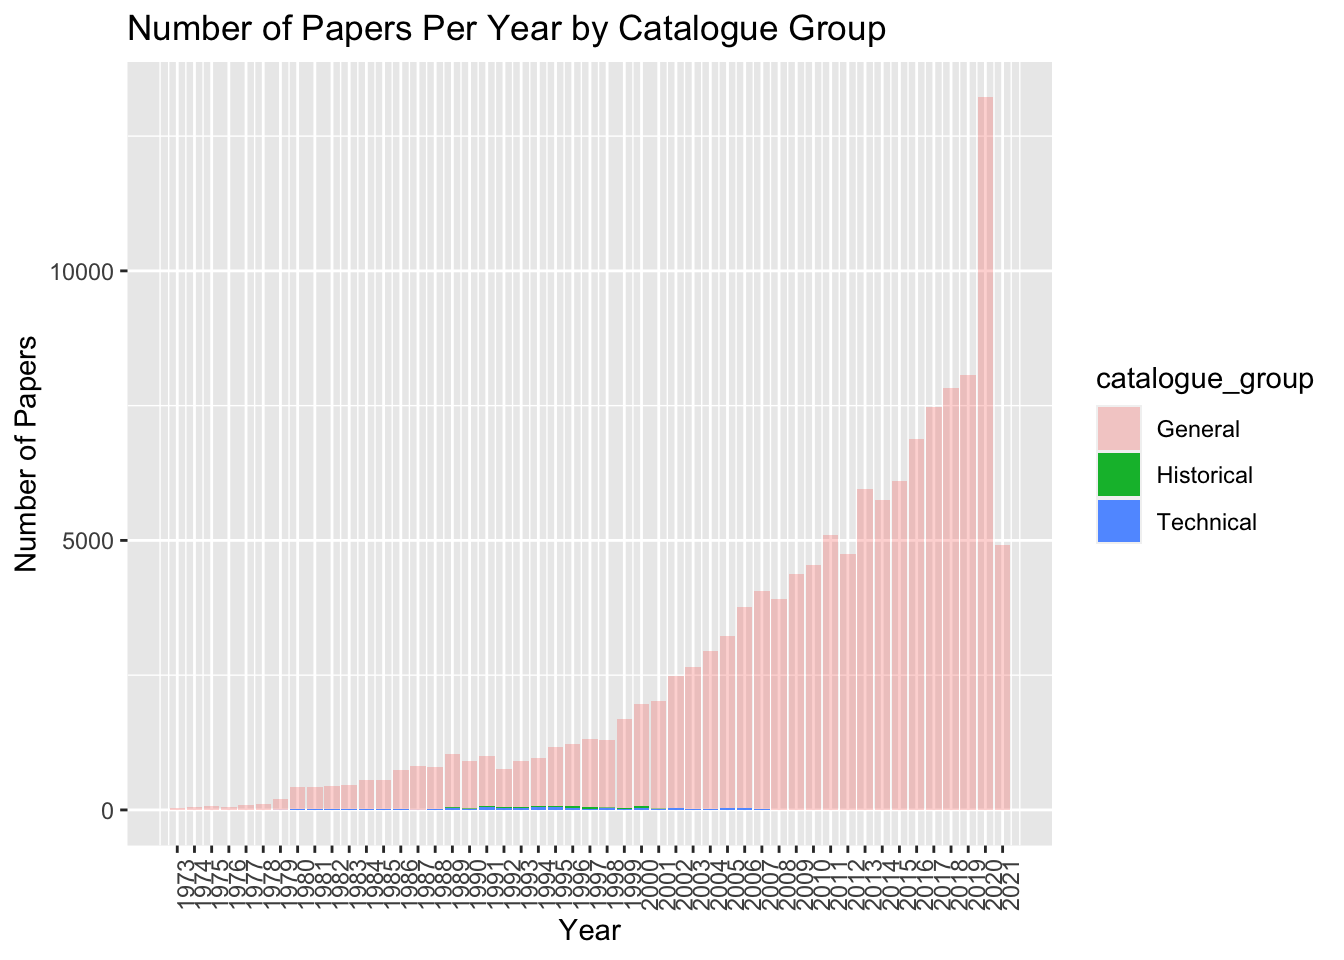
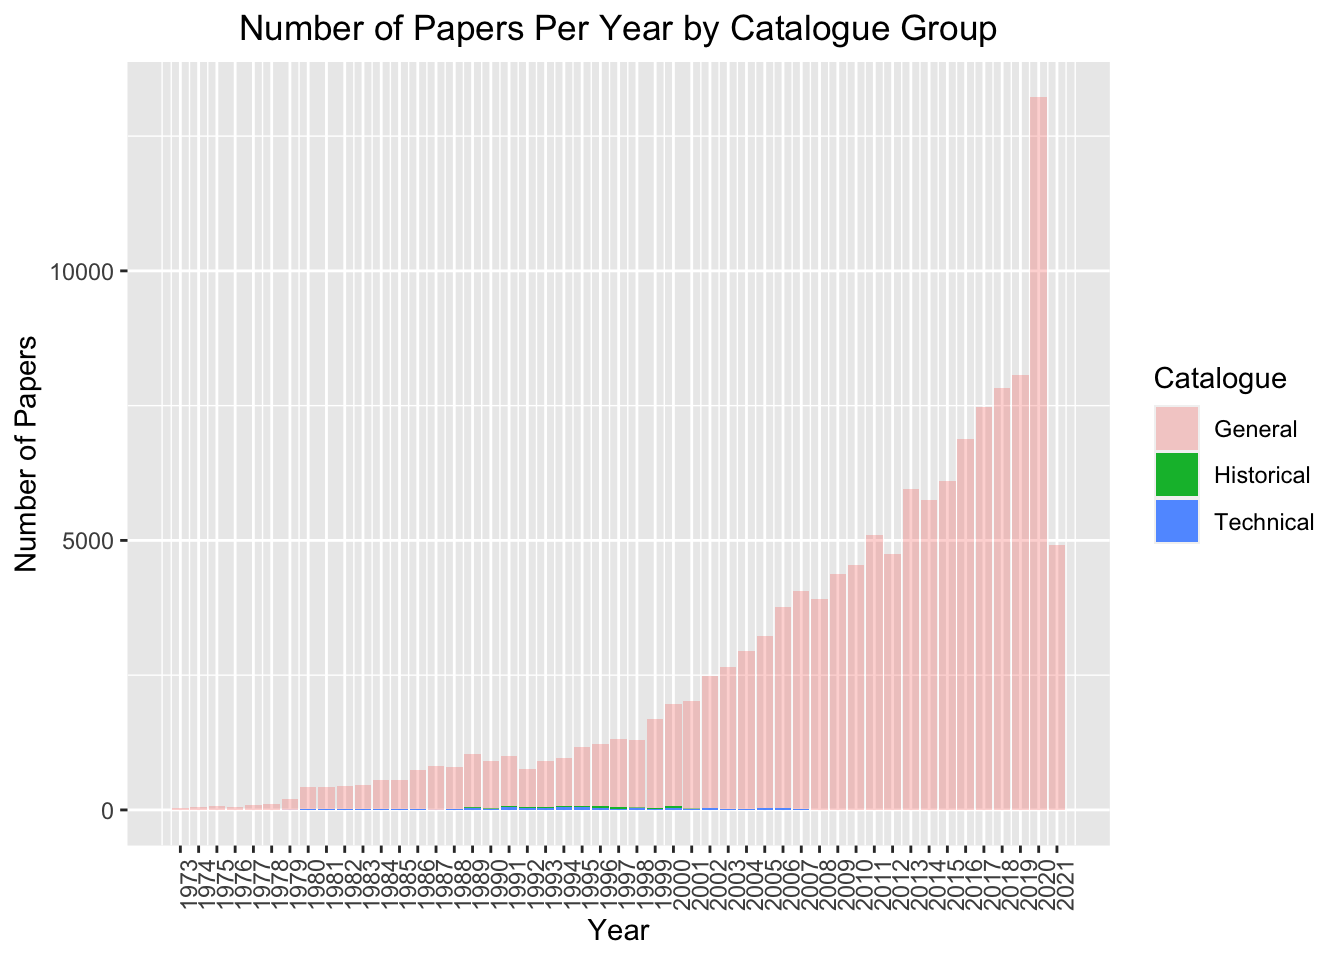
Finished TidyTuesday Assignment
Graph completed and neat.

Changed region(s): [[0.0938, 0.0, 0.9688, 1.0]]

diff --git a/docs/tidytuesday.html b/docs/tidytuesday.html
@@ -373,12 +373,17 @@ $(document).ready(function () {
 <div class="sourceCode" id="cb1"><pre class="sourceCode r"><code class="sourceCode r"><span id="cb1-1"><a href="#cb1-1" aria-hidden="true" tabindex="-1"></a><span class="fu">library</span>(tidytuesdayR)</span>
 <span id="cb1-2"><a href="#cb1-2" aria-hidden="true" tabindex="-1"></a><span class="fu">library</span>(tidyverse)</span>
 <span id="cb1-3"><a href="#cb1-3" aria-hidden="true" tabindex="-1"></a><span class="fu">library</span>(nberwp)</span></code></pre></div>
+<pre><code>## 
+## Attaching package: &#39;nberwp&#39;</code></pre>
+<pre><code>## The following objects are masked _by_ &#39;.GlobalEnv&#39;:
+## 
+##     authors, paper_authors, paper_programs, papers, programs</code></pre>
 </div>
 <div id="loading-the-data" class="section level3">
 <h3>Loading the data</h3>
-<div class="sourceCode" id="cb2"><pre class="sourceCode r"><code class="sourceCode r"><span id="cb2-1"><a href="#cb2-1" aria-hidden="true" tabindex="-1"></a><span class="co">#tuesdata &lt;- tidytuesdayR::tt_load(&#39;2021-09-28&#39;)</span></span>
-<span id="cb2-2"><a href="#cb2-2" aria-hidden="true" tabindex="-1"></a></span>
-<span id="cb2-3"><a href="#cb2-3" aria-hidden="true" tabindex="-1"></a>papers <span class="ot">&lt;-</span> readr<span class="sc">::</span><span class="fu">read_csv</span>(<span class="st">&#39;https://raw.githubusercontent.com/rfordatascience/tidytuesday/master/data/2021/2021-09-28/papers.csv&#39;</span>)</span></code></pre></div>
+<div class="sourceCode" id="cb4"><pre class="sourceCode r"><code class="sourceCode r"><span id="cb4-1"><a href="#cb4-1" aria-hidden="true" tabindex="-1"></a><span class="co">#tuesdata &lt;- tidytuesdayR::tt_load(&#39;2021-09-28&#39;)</span></span>
+<span id="cb4-2"><a href="#cb4-2" aria-hidden="true" tabindex="-1"></a></span>
+<span id="cb4-3"><a href="#cb4-3" aria-hidden="true" tabindex="-1"></a>papers <span class="ot">&lt;-</span> readr<span class="sc">::</span><span class="fu">read_csv</span>(<span class="st">&#39;https://raw.githubusercontent.com/rfordatascience/tidytuesday/master/data/2021/2021-09-28/papers.csv&#39;</span>)</span></code></pre></div>
 <pre><code>## Rows: 29434 Columns: 4</code></pre>
 <pre><code>## ── Column specification ────────────────────────────────────────────────────────
 ## Delimiter: &quot;,&quot;
@@ -387,7 +392,7 @@ $(document).ready(function () {
 <pre><code>## 
 ## ℹ Use `spec()` to retrieve the full column specification for this data.
 ## ℹ Specify the column types or set `show_col_types = FALSE` to quiet this message.</code></pre>
-<div class="sourceCode" id="cb6"><pre class="sourceCode r"><code class="sourceCode r"><span id="cb6-1"><a href="#cb6-1" aria-hidden="true" tabindex="-1"></a>authors <span class="ot">&lt;-</span> readr<span class="sc">::</span><span class="fu">read_csv</span>(<span class="st">&#39;https://raw.githubusercontent.com/rfordatascience/tidytuesday/master/data/2021/2021-09-28/authors.csv&#39;</span>)</span></code></pre></div>
+<div class="sourceCode" id="cb8"><pre class="sourceCode r"><code class="sourceCode r"><span id="cb8-1"><a href="#cb8-1" aria-hidden="true" tabindex="-1"></a>authors <span class="ot">&lt;-</span> readr<span class="sc">::</span><span class="fu">read_csv</span>(<span class="st">&#39;https://raw.githubusercontent.com/rfordatascience/tidytuesday/master/data/2021/2021-09-28/authors.csv&#39;</span>)</span></code></pre></div>
 <pre><code>## Rows: 15437 Columns: 4</code></pre>
 <pre><code>## ── Column specification ────────────────────────────────────────────────────────
 ## Delimiter: &quot;,&quot;
@@ -395,7 +400,7 @@ $(document).ready(function () {
 <pre><code>## 
 ## ℹ Use `spec()` to retrieve the full column specification for this data.
 ## ℹ Specify the column types or set `show_col_types = FALSE` to quiet this message.</code></pre>
-<div class="sourceCode" id="cb10"><pre class="sourceCode r"><code class="sourceCode r"><span id="cb10-1"><a href="#cb10-1" aria-hidden="true" tabindex="-1"></a>programs <span class="ot">&lt;-</span> readr<span class="sc">::</span><span class="fu">read_csv</span>(<span class="st">&#39;https://raw.githubusercontent.com/rfordatascience/tidytuesday/master/data/2021/2021-09-28/programs.csv&#39;</span>)</span></code></pre></div>
+<div class="sourceCode" id="cb12"><pre class="sourceCode r"><code class="sourceCode r"><span id="cb12-1"><a href="#cb12-1" aria-hidden="true" tabindex="-1"></a>programs <span class="ot">&lt;-</span> readr<span class="sc">::</span><span class="fu">read_csv</span>(<span class="st">&#39;https://raw.githubusercontent.com/rfordatascience/tidytuesday/master/data/2021/2021-09-28/programs.csv&#39;</span>)</span></code></pre></div>
 <pre><code>## Rows: 21 Columns: 3</code></pre>
 <pre><code>## ── Column specification ────────────────────────────────────────────────────────
 ## Delimiter: &quot;,&quot;
@@ -403,7 +408,7 @@ $(document).ready(function () {
 <pre><code>## 
 ## ℹ Use `spec()` to retrieve the full column specification for this data.
 ## ℹ Specify the column types or set `show_col_types = FALSE` to quiet this message.</code></pre>
-<div class="sourceCode" id="cb14"><pre class="sourceCode r"><code class="sourceCode r"><span id="cb14-1"><a href="#cb14-1" aria-hidden="true" tabindex="-1"></a>paper_authors <span class="ot">&lt;-</span> readr<span class="sc">::</span><span class="fu">read_csv</span>(<span class="st">&#39;https://raw.githubusercontent.com/rfordatascience/tidytuesday/master/data/2021/2021-09-28/paper_authors.csv&#39;</span>)</span></code></pre></div>
+<div class="sourceCode" id="cb16"><pre class="sourceCode r"><code class="sourceCode r"><span id="cb16-1"><a href="#cb16-1" aria-hidden="true" tabindex="-1"></a>paper_authors <span class="ot">&lt;-</span> readr<span class="sc">::</span><span class="fu">read_csv</span>(<span class="st">&#39;https://raw.githubusercontent.com/rfordatascience/tidytuesday/master/data/2021/2021-09-28/paper_authors.csv&#39;</span>)</span></code></pre></div>
 <pre><code>## Rows: 67090 Columns: 2</code></pre>
 <pre><code>## ── Column specification ────────────────────────────────────────────────────────
 ## Delimiter: &quot;,&quot;
@@ -411,7 +416,7 @@ $(document).ready(function () {
 <pre><code>## 
 ## ℹ Use `spec()` to retrieve the full column specification for this data.
 ## ℹ Specify the column types or set `show_col_types = FALSE` to quiet this message.</code></pre>
-<div class="sourceCode" id="cb18"><pre class="sourceCode r"><code class="sourceCode r"><span id="cb18-1"><a href="#cb18-1" aria-hidden="true" tabindex="-1"></a>paper_programs <span class="ot">&lt;-</span> readr<span class="sc">::</span><span class="fu">read_csv</span>(<span class="st">&#39;https://raw.githubusercontent.com/rfordatascience/tidytuesday/master/data/2021/2021-09-28/paper_programs.csv&#39;</span>)</span></code></pre></div>
+<div class="sourceCode" id="cb20"><pre class="sourceCode r"><code class="sourceCode r"><span id="cb20-1"><a href="#cb20-1" aria-hidden="true" tabindex="-1"></a>paper_programs <span class="ot">&lt;-</span> readr<span class="sc">::</span><span class="fu">read_csv</span>(<span class="st">&#39;https://raw.githubusercontent.com/rfordatascience/tidytuesday/master/data/2021/2021-09-28/paper_programs.csv&#39;</span>)</span></code></pre></div>
 <pre><code>## Rows: 53996 Columns: 2</code></pre>
 <pre><code>## ── Column specification ────────────────────────────────────────────────────────
 ## Delimiter: &quot;,&quot;
@@ -423,15 +428,15 @@ $(document).ready(function () {
 <div id="cleaning-and-combining-the-datasets" class="section level3">
 <h3>Cleaning and Combining the Datasets</h3>
 <p>First we have to join all 5 data frames together, and we can do that by using left_join. Each dataframe has a key column that matches with another dataframe, and we can use that to join them all together.</p>
-<div class="sourceCode" id="cb22"><pre class="sourceCode r"><code class="sourceCode r"><span id="cb22-1"><a href="#cb22-1" aria-hidden="true" tabindex="-1"></a>CombinedFrame <span class="ot">&lt;-</span> <span class="fu">left_join</span>(papers, paper_authors) <span class="sc">%&gt;%</span></span>
-<span id="cb22-2"><a href="#cb22-2" aria-hidden="true" tabindex="-1"></a>                  <span class="fu">left_join</span>(authors) <span class="sc">%&gt;%</span></span>
-<span id="cb22-3"><a href="#cb22-3" aria-hidden="true" tabindex="-1"></a>                  <span class="fu">left_join</span>(paper_programs) <span class="sc">%&gt;%</span></span>
-<span id="cb22-4"><a href="#cb22-4" aria-hidden="true" tabindex="-1"></a>                  <span class="fu">left_join</span>(programs)</span></code></pre></div>
+<div class="sourceCode" id="cb24"><pre class="sourceCode r"><code class="sourceCode r"><span id="cb24-1"><a href="#cb24-1" aria-hidden="true" tabindex="-1"></a>CombinedFrame <span class="ot">&lt;-</span> <span class="fu">left_join</span>(papers, paper_authors) <span class="sc">%&gt;%</span></span>
+<span id="cb24-2"><a href="#cb24-2" aria-hidden="true" tabindex="-1"></a>                  <span class="fu">left_join</span>(authors) <span class="sc">%&gt;%</span></span>
+<span id="cb24-3"><a href="#cb24-3" aria-hidden="true" tabindex="-1"></a>                  <span class="fu">left_join</span>(paper_programs) <span class="sc">%&gt;%</span></span>
+<span id="cb24-4"><a href="#cb24-4" aria-hidden="true" tabindex="-1"></a>                  <span class="fu">left_join</span>(programs)</span></code></pre></div>
 <pre><code>## Joining, by = &quot;paper&quot;</code></pre>
 <pre><code>## Joining, by = &quot;author&quot;</code></pre>
 <pre><code>## Joining, by = &quot;paper&quot;</code></pre>
 <pre><code>## Joining, by = &quot;program&quot;</code></pre>
-<div class="sourceCode" id="cb27"><pre class="sourceCode r"><code class="sourceCode r"><span id="cb27-1"><a href="#cb27-1" aria-hidden="true" tabindex="-1"></a><span class="fu">str</span>(CombinedFrame)</span></code></pre></div>
+<div class="sourceCode" id="cb29"><pre class="sourceCode r"><code class="sourceCode r"><span id="cb29-1"><a href="#cb29-1" aria-hidden="true" tabindex="-1"></a><span class="fu">str</span>(CombinedFrame)</span></code></pre></div>
 <pre><code>## spec_tbl_df [130,081 × 11] (S3: spec_tbl_df/tbl_df/tbl/data.frame)
 ##  $ paper           : chr [1:130081] &quot;w0001&quot; &quot;w0002&quot; &quot;w0003&quot; &quot;w0004&quot; ...
 ##  $ year            : num [1:130081] 1973 1973 1973 1973 1973 ...
@@ -453,13 +458,13 @@ $(document).ready(function () {
 ##   .. )
 ##  - attr(*, &quot;problems&quot;)=&lt;externalptr&gt;</code></pre>
 <p>It’s also mentioned that the first letter of each paper’s ID number in the first column states whether it is historical (h), technical (t) or general (w). We need to create another column telling us that information</p>
-<div class="sourceCode" id="cb29"><pre class="sourceCode r"><code class="sourceCode r"><span id="cb29-1"><a href="#cb29-1" aria-hidden="true" tabindex="-1"></a>CombinedFrame<span class="sc">$</span>catalogue_group <span class="ot">&lt;-</span> <span class="fu">substr</span>(CombinedFrame<span class="sc">$</span>paper, <span class="dv">1</span>, <span class="dv">1</span>)</span>
-<span id="cb29-2"><a href="#cb29-2" aria-hidden="true" tabindex="-1"></a></span>
-<span id="cb29-3"><a href="#cb29-3" aria-hidden="true" tabindex="-1"></a>CombinedFrame<span class="sc">$</span>catalogue_group[CombinedFrame<span class="sc">$</span>catalogue_group <span class="sc">==</span> <span class="st">&quot;w&quot;</span>] <span class="ot">&lt;-</span> <span class="st">&quot;General&quot;</span></span>
-<span id="cb29-4"><a href="#cb29-4" aria-hidden="true" tabindex="-1"></a>CombinedFrame<span class="sc">$</span>catalogue_group[CombinedFrame<span class="sc">$</span>catalogue_group <span class="sc">==</span> <span class="st">&quot;h&quot;</span>] <span class="ot">&lt;-</span> <span class="st">&quot;Historical&quot;</span></span>
-<span id="cb29-5"><a href="#cb29-5" aria-hidden="true" tabindex="-1"></a>CombinedFrame<span class="sc">$</span>catalogue_group[CombinedFrame<span class="sc">$</span>catalogue_group <span class="sc">==</span> <span class="st">&quot;t&quot;</span>] <span class="ot">&lt;-</span> <span class="st">&quot;Technical&quot;</span></span>
-<span id="cb29-6"><a href="#cb29-6" aria-hidden="true" tabindex="-1"></a></span>
-<span id="cb29-7"><a href="#cb29-7" aria-hidden="true" tabindex="-1"></a><span class="fu">str</span>(CombinedFrame)</span></code></pre></div>
+<div class="sourceCode" id="cb31"><pre class="sourceCode r"><code class="sourceCode r"><span id="cb31-1"><a href="#cb31-1" aria-hidden="true" tabindex="-1"></a>CombinedFrame<span class="sc">$</span>Catalogue <span class="ot">&lt;-</span> <span class="fu">substr</span>(CombinedFrame<span class="sc">$</span>paper, <span class="dv">1</span>, <span class="dv">1</span>)</span>
+<span id="cb31-2"><a href="#cb31-2" aria-hidden="true" tabindex="-1"></a></span>
+<span id="cb31-3"><a href="#cb31-3" aria-hidden="true" tabindex="-1"></a>CombinedFrame<span class="sc">$</span>Catalogue[CombinedFrame<span class="sc">$</span>Catalogue <span class="sc">==</span> <span class="st">&quot;w&quot;</span>] <span class="ot">&lt;-</span> <span class="st">&quot;General&quot;</span></span>
+<span id="cb31-4"><a href="#cb31-4" aria-hidden="true" tabindex="-1"></a>CombinedFrame<span class="sc">$</span>Catalogue[CombinedFrame<span class="sc">$</span>Catalogue <span class="sc">==</span> <span class="st">&quot;h&quot;</span>] <span class="ot">&lt;-</span> <span class="st">&quot;Historical&quot;</span></span>
+<span id="cb31-5"><a href="#cb31-5" aria-hidden="true" tabindex="-1"></a>CombinedFrame<span class="sc">$</span>Catalogue[CombinedFrame<span class="sc">$</span>Catalogue <span class="sc">==</span> <span class="st">&quot;t&quot;</span>] <span class="ot">&lt;-</span> <span class="st">&quot;Technical&quot;</span></span>
+<span id="cb31-6"><a href="#cb31-6" aria-hidden="true" tabindex="-1"></a></span>
+<span id="cb31-7"><a href="#cb31-7" aria-hidden="true" tabindex="-1"></a><span class="fu">str</span>(CombinedFrame)</span></code></pre></div>
 <pre><code>## spec_tbl_df [130,081 × 12] (S3: spec_tbl_df/tbl_df/tbl/data.frame)
 ##  $ paper           : chr [1:130081] &quot;w0001&quot; &quot;w0002&quot; &quot;w0003&quot; &quot;w0004&quot; ...
 ##  $ year            : num [1:130081] 1973 1973 1973 1973 1973 ...
@@ -472,7 +477,7 @@ $(document).ready(function () {
 ##  $ program         : chr [1:130081] NA NA NA NA ...
 ##  $ program_desc    : chr [1:130081] NA NA NA NA ...
 ##  $ program_category: chr [1:130081] NA NA NA NA ...
-##  $ catalogue_group : chr [1:130081] &quot;General&quot; &quot;General&quot; &quot;General&quot; &quot;General&quot; ...
+##  $ Catalogue       : chr [1:130081] &quot;General&quot; &quot;General&quot; &quot;General&quot; &quot;General&quot; ...
 ##  - attr(*, &quot;spec&quot;)=
 ##   .. cols(
 ##   ..   paper = col_character(),
@@ -485,19 +490,20 @@ $(document).ready(function () {
 <div id="exploratory-data-analysis" class="section level3">
 <h3>Exploratory Data Analysis</h3>
 <p>Here we’ll look at the distribution of the number of papers in each catalogue group</p>
-<div class="sourceCode" id="cb31"><pre class="sourceCode r"><code class="sourceCode r"><span id="cb31-1"><a href="#cb31-1" aria-hidden="true" tabindex="-1"></a><span class="fu">ggplot</span>(CombinedFrame) <span class="sc">+</span></span>
-<span id="cb31-2"><a href="#cb31-2" aria-hidden="true" tabindex="-1"></a>    <span class="fu">geom_bar</span>(<span class="fu">aes</span>(<span class="at">x =</span> catalogue_group))</span></code></pre></div>
+<div class="sourceCode" id="cb33"><pre class="sourceCode r"><code class="sourceCode r"><span id="cb33-1"><a href="#cb33-1" aria-hidden="true" tabindex="-1"></a><span class="fu">ggplot</span>(CombinedFrame) <span class="sc">+</span></span>
+<span id="cb33-2"><a href="#cb33-2" aria-hidden="true" tabindex="-1"></a>    <span class="fu">geom_bar</span>(<span class="fu">aes</span>(<span class="at">x =</span> Catalogue))</span></code></pre></div>
 <p><img src="tidytuesday_files/figure-html/unnamed-chunk-5-1.png" width="672" /></p>
-<p>There is considerably more papers in the general group than the historical or technical group.</p>
+<p>There are considerably more papers in the general group than the historical or technical group.</p>
 <p>Here we’ll look at the distribution of the number of papers in each year by their catalogue group.</p>
-<div class="sourceCode" id="cb32"><pre class="sourceCode r"><code class="sourceCode r"><span id="cb32-1"><a href="#cb32-1" aria-hidden="true" tabindex="-1"></a><span class="fu">ggplot</span>(CombinedFrame) <span class="sc">+</span></span>
-<span id="cb32-2"><a href="#cb32-2" aria-hidden="true" tabindex="-1"></a>      <span class="fu">geom_bar</span>(<span class="fu">aes</span>(<span class="at">x =</span> year,<span class="at">fill =</span> catalogue_group, <span class="at">alpha =</span> catalogue_group)) <span class="sc">+</span></span>
-<span id="cb32-3"><a href="#cb32-3" aria-hidden="true" tabindex="-1"></a>      <span class="fu">scale_alpha_manual</span>(<span class="at">values =</span> <span class="fu">c</span>(<span class="fl">0.3</span>, <span class="dv">1</span>, <span class="dv">1</span>)) <span class="sc">+</span></span>
-<span id="cb32-4"><a href="#cb32-4" aria-hidden="true" tabindex="-1"></a>      <span class="fu">ggtitle</span>(<span class="st">&quot;Number of Papers Per Year by Catalogue Group&quot;</span>) <span class="sc">+</span></span>
-<span id="cb32-5"><a href="#cb32-5" aria-hidden="true" tabindex="-1"></a>      <span class="fu">xlab</span>(<span class="st">&quot;Year&quot;</span>) <span class="sc">+</span></span>
-<span id="cb32-6"><a href="#cb32-6" aria-hidden="true" tabindex="-1"></a>          <span class="fu">scale_x_continuous</span>(<span class="at">labels =</span> <span class="fu">unique</span>(CombinedFrame<span class="sc">$</span>year),<span class="at">breaks=</span><span class="fu">unique</span>(CombinedFrame<span class="sc">$</span>year)) <span class="sc">+</span></span>
-<span id="cb32-7"><a href="#cb32-7" aria-hidden="true" tabindex="-1"></a>      <span class="fu">ylab</span>(<span class="st">&quot;Number of Papers&quot;</span>) <span class="sc">+</span></span>
-<span id="cb32-8"><a href="#cb32-8" aria-hidden="true" tabindex="-1"></a>      <span class="fu">theme</span>(<span class="at">axis.text.x =</span> <span class="fu">element_text</span>(<span class="at">angle =</span> <span class="dv">90</span>))</span></code></pre></div>
+<div class="sourceCode" id="cb34"><pre class="sourceCode r"><code class="sourceCode r"><span id="cb34-1"><a href="#cb34-1" aria-hidden="true" tabindex="-1"></a><span class="fu">ggplot</span>(CombinedFrame) <span class="sc">+</span></span>
+<span id="cb34-2"><a href="#cb34-2" aria-hidden="true" tabindex="-1"></a>      <span class="fu">geom_bar</span>(<span class="fu">aes</span>(<span class="at">x =</span> year,<span class="at">fill =</span> Catalogue, <span class="at">alpha =</span> Catalogue)) <span class="sc">+</span></span>
+<span id="cb34-3"><a href="#cb34-3" aria-hidden="true" tabindex="-1"></a>      <span class="fu">scale_alpha_manual</span>(<span class="at">values =</span> <span class="fu">c</span>(<span class="fl">0.3</span>, <span class="dv">1</span>, <span class="dv">1</span>)) <span class="sc">+</span></span>
+<span id="cb34-4"><a href="#cb34-4" aria-hidden="true" tabindex="-1"></a>      <span class="fu">ggtitle</span>(<span class="st">&quot;Number of Papers Per Year by Catalogue Group&quot;</span>) <span class="sc">+</span></span>
+<span id="cb34-5"><a href="#cb34-5" aria-hidden="true" tabindex="-1"></a>      <span class="fu">xlab</span>(<span class="st">&quot;Year&quot;</span>) <span class="sc">+</span></span>
+<span id="cb34-6"><a href="#cb34-6" aria-hidden="true" tabindex="-1"></a>          <span class="fu">scale_x_continuous</span>(<span class="at">labels =</span> <span class="fu">unique</span>(CombinedFrame<span class="sc">$</span>year),<span class="at">breaks=</span><span class="fu">unique</span>(CombinedFrame<span class="sc">$</span>year)) <span class="sc">+</span></span>
+<span id="cb34-7"><a href="#cb34-7" aria-hidden="true" tabindex="-1"></a>      <span class="fu">ylab</span>(<span class="st">&quot;Number of Papers&quot;</span>) <span class="sc">+</span></span>
+<span id="cb34-8"><a href="#cb34-8" aria-hidden="true" tabindex="-1"></a>      <span class="fu">theme</span>(<span class="at">axis.text.x =</span> <span class="fu">element_text</span>(<span class="at">angle =</span> <span class="dv">90</span>),</span>
+<span id="cb34-9"><a href="#cb34-9" aria-hidden="true" tabindex="-1"></a>            <span class="at">plot.title =</span> <span class="fu">element_text</span>(<span class="at">hjust =</span> <span class="fl">0.5</span>))</span></code></pre></div>
 <p><img src="tidytuesday_files/figure-html/unnamed-chunk-6-1.png" width="672" /></p>
 <p>As you can see from this graph, the overall number of papers has increased dramatically over time, especially in 2020. The number of General papers dwarfs the numbers of Historical and Technical papers. However, from 1978-2007, a small number of Technical papers were being released along with a small number of Historical papers in the 1990s. As soon as 2007 hit, the number of Historical and Technical papers being released dropped to 0 and all the papers released afterwards were considered General papers.</p>
 </div>
